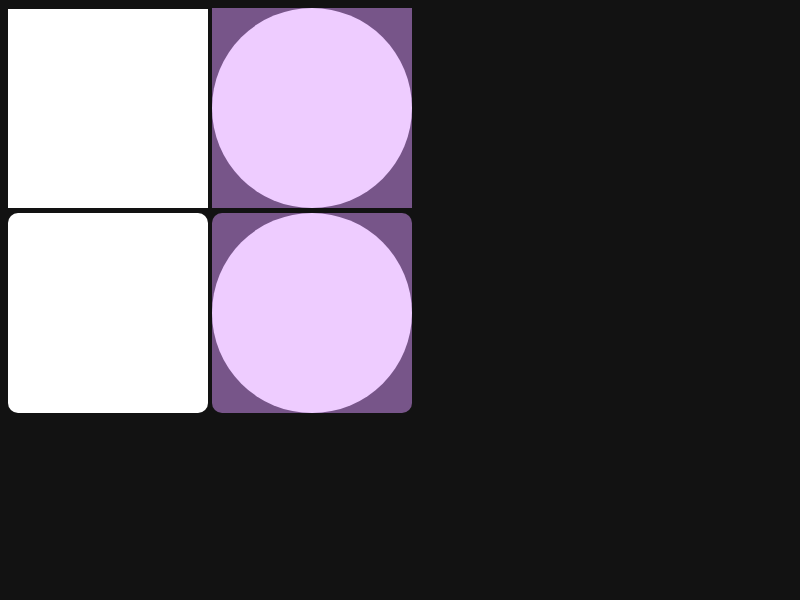
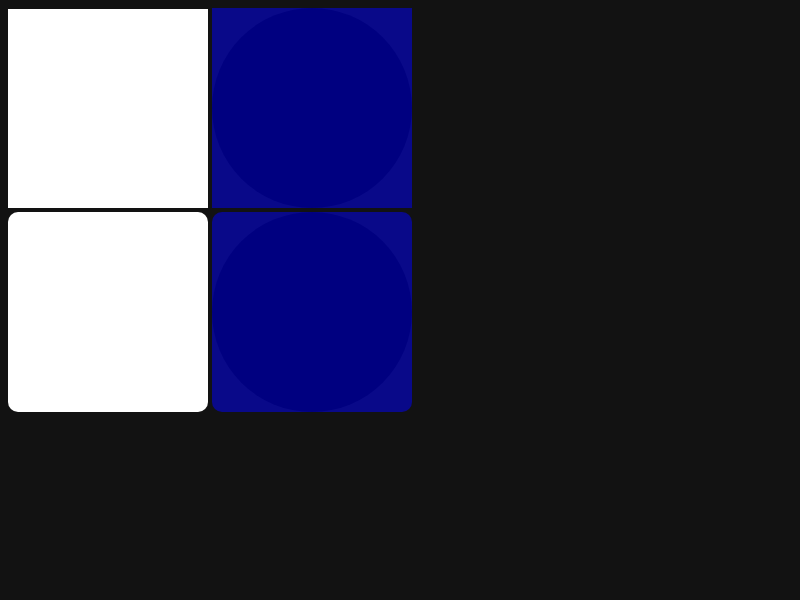
Add size threshold for classifying SVG documents for auto dark mode.
Large standalone SVG documents are treated as content (illustrations/
photos) and left untouched by auto dark mode, while small ones like
icons are considered for auto dark mode.

Nested SVGs are handled via a stack of auto dark mode paused states on
GraphicsContext, managed by ScopedAutoDarkModeState. An icon-sized
inner SVG re-enables inversion even inside a paused (large) container,
and the outer state is restored on scope exit. Images remain gated by
their own size classification rather than the paused state.

Bug: 449909524
Commit-Queue: Prashant Nevase <pnevase@microsoft.com>
Cr-Commit-Position: refs/heads/main@{#1661044}

Changed region(s): [[0.25, 0.0, 0.5312, 0.69]]

diff --git a/renderer/platform/graphics/graphics_context_test.cc b/renderer/platform/graphics/graphics_context_test.cc
@@ -198,5 +198,77 @@ TEST_F(GraphicsContextDarkModeTest, InvertLightnessLAB) {
   EXPECT_EQ(0xff7f7f7f, bitmap_.getColor(3, 0));
 }
 
+TEST_F(GraphicsContextDarkModeTest, ScopedAutoDarkModeStatePaused) {
+  PaintController paint_controller;
+  GraphicsContext context(paint_controller);
+  DarkModeSettings settings;
+  context.SetDarkModeFilterForTest(std::make_unique<DarkModeFilter>(settings));
+  AutoDarkMode auto_dark_mode(DarkModeFilter::ElementRole::kBackground,
+                              /*enabled=*/true);
+
+  EXPECT_FALSE(context.IsAutoDarkModePaused());
+
+  context.BeginRecording();
+  {
+    // Pausing suppresses inversion, so black stays black.
+    GraphicsContext::ScopedAutoDarkModeState paused(context, /*paused=*/true);
+    EXPECT_TRUE(context.IsAutoDarkModePaused());
+    context.FillRect(gfx::RectF(0, 0, 1, 1), Color::kBlack, auto_dark_mode);
+
+    {
+      // A nested scope overrides the ancestor, re-enabling inversion so black
+      // becomes white.
+      GraphicsContext::ScopedAutoDarkModeState resumed(context,
+                                                       /*paused=*/false);
+      EXPECT_FALSE(context.IsAutoDarkModePaused());
+      context.FillRect(gfx::RectF(1, 0, 1, 1), Color::kBlack, auto_dark_mode);
+    }
+
+    // The outer paused state is restored when the nested scope exits.
+    EXPECT_TRUE(context.IsAutoDarkModePaused());
+  }
+
+  // Back to the default (not paused) state after all scopes exit; inversion
+  // applies again, so black becomes white.
+  EXPECT_FALSE(context.IsAutoDarkModePaused());
+  context.FillRect(gfx::RectF(2, 0, 1, 1), Color::kBlack, auto_dark_mode);
+
+  canvas_->drawPicture(context.EndRecording());
+
+  EXPECT_EQ(SK_ColorBLACK, bitmap_.getColor(0, 0));
+  EXPECT_EQ(SK_ColorWHITE, bitmap_.getColor(1, 0));
+  EXPECT_EQ(SK_ColorWHITE, bitmap_.getColor(2, 0));
+}
+
+TEST_F(GraphicsContextDarkModeTest,
+       BitmapImageIgnoresAutoDarkModePausedStates) {
+  PaintController paint_controller;
+  GraphicsContext context(paint_controller);
+  DarkModeSettings settings;
+  context.SetDarkModeFilterForTest(std::make_unique<DarkModeFilter>(settings));
+
+  ImageAutoDarkMode icon(DarkModeFilter::ElementRole::kBackground,
+                         /*enabled=*/true, DarkModeFilter::ImageType::kIcon);
+  ImageAutoDarkMode photo(DarkModeFilter::ElementRole::kBackground,
+                          /*enabled=*/true, DarkModeFilter::ImageType::kPhoto);
+
+  // Not paused: icons are inverted, photos are not.
+  EXPECT_FALSE(context.IsAutoDarkModePaused());
+  EXPECT_NE(nullptr, context.GetDarkModeFilterForImage(icon));
+  EXPECT_EQ(nullptr, context.GetDarkModeFilterForImage(photo));
+
+  {
+    // Paused: the icon is still inverted, and the photo is still untouched.
+    GraphicsContext::ScopedAutoDarkModeState paused(context, /*paused=*/true);
+    EXPECT_TRUE(context.IsAutoDarkModePaused());
+    EXPECT_NE(nullptr, context.GetDarkModeFilterForImage(icon));
+    EXPECT_EQ(nullptr, context.GetDarkModeFilterForImage(photo));
+  }
+
+  // A disabled image auto dark mode never returns a filter.
+  EXPECT_EQ(nullptr,
+            context.GetDarkModeFilterForImage(ImageAutoDarkMode::Disabled()));
+}
+
 }  // namespace
 }  // namespace blink

diff --git a/renderer/core/paint/paint_auto_dark_mode_test.cc b/renderer/core/paint/paint_auto_dark_mode_test.cc
@@ -4,8 +4,13 @@
 
 #include "third_party/blink/renderer/core/paint/paint_auto_dark_mode.h"
 
+#include <memory>
+
 #include "testing/gtest/include/gtest/gtest.h"
+#include "third_party/blink/renderer/core/frame/local_frame.h"
+#include "third_party/blink/renderer/core/testing/dummy_page_holder.h"
 #include "third_party/blink/renderer/platform/graphics/dark_mode_settings.h"
+#include "third_party/blink/renderer/platform/testing/task_environment.h"
 #include "ui/gfx/geometry/rect.h"
 
 namespace blink {
@@ -72,6 +77,18 @@ class PaintAutoDarkModeTest : public testing::Test {
         ImageClassifierHelper::GetImageTypeForTesting(dest_rect, src_rect,
                                                       layout_zoom)));
   }
+
+  DarkModeFilter::ImageType GetSVGDocumentType(float layout_zoom,
+                                               const gfx::Rect& size) {
+    LocalFrame& frame = page_holder_->GetFrame();
+    frame.SetLayoutZoomFactor(layout_zoom);
+    return ImageClassifierHelper::GetSVGDocumentType(frame, size);
+  }
+
+ private:
+  test::TaskEnvironment task_environment_;
+  std::unique_ptr<DummyPageHolder> page_holder_ =
+      std::make_unique<DummyPageHolder>(gfx::Size(800, 600));
 };
 
 TEST_F(PaintAutoDarkModeTest, ShouldApplyFilterToImage) {
@@ -152,6 +169,32 @@ TEST_F(PaintAutoDarkModeTest,
   screen_info.device_scale_factor = 3.0f;
 
   TestApplyFilterToImageIrrespectiveOfPageZoom(screen_info);
+}
+
+TEST_F(PaintAutoDarkModeTest, SVGDocumentImage) {
+  // Both dimensions are at or below the icon threshold (kMaxImageLength == 64).
+  EXPECT_EQ(DarkModeFilter::ImageType::kIcon,
+            GetSVGDocumentType(1.0f, gfx::Rect(50, 50)));
+
+  // Either dimension above the threshold classifies the document as a photo.
+  EXPECT_EQ(DarkModeFilter::ImageType::kPhoto,
+            GetSVGDocumentType(1.0f, gfx::Rect(200, 200)));
+  // Only the width exceeds the threshold.
+  EXPECT_EQ(DarkModeFilter::ImageType::kPhoto,
+            GetSVGDocumentType(1.0f, gfx::Rect(100, 50)));
+  // Only the height exceeds the threshold.
+  EXPECT_EQ(DarkModeFilter::ImageType::kPhoto,
+            GetSVGDocumentType(1.0f, gfx::Rect(50, 100)));
+
+  // A 40x40 CSS-sized SVG scaled up by a 5x layout zoom is still an icon after
+  // the zoom is undone.
+  EXPECT_EQ(DarkModeFilter::ImageType::kIcon,
+            GetSVGDocumentType(5.0f, gfx::Rect(200, 200)));
+
+  // A 400x400 CSS-sized SVG scaled down by a 0.25x layout zoom is still a photo
+  // after the zoom is undone.
+  EXPECT_EQ(DarkModeFilter::ImageType::kPhoto,
+            GetSVGDocumentType(0.25f, gfx::Rect(100, 100)));
 }
 
 }  // namespace blink

diff --git a/renderer/core/paint/svg_root_painter.cc b/renderer/core/paint/svg_root_painter.cc
@@ -4,12 +4,17 @@
 
 #include "third_party/blink/renderer/core/paint/svg_root_painter.h"
 
+#include <optional>
+
+#include "third_party/blink/renderer/core/frame/local_frame.h"
 #include "third_party/blink/renderer/core/layout/svg/layout_svg_foreign_object.h"
 #include "third_party/blink/renderer/core/layout/svg/layout_svg_root.h"
+#include "third_party/blink/renderer/core/paint/paint_auto_dark_mode.h"
 #include "third_party/blink/renderer/core/paint/paint_info.h"
 #include "third_party/blink/renderer/core/paint/paint_layer.h"
 #include "third_party/blink/renderer/core/paint/paint_layer_painter.h"
 #include "third_party/blink/renderer/core/svg/svg_svg_element.h"
+#include "third_party/blink/renderer/platform/graphics/graphics_context.h"
 #include "third_party/blink/renderer/platform/runtime_enabled_features.h"
 
 namespace blink {
@@ -64,8 +69,10 @@ AffineTransform SVGRootPainter::TransformToPixelSnappedBorderBox(
 void SVGRootPainter::PaintReplaced(const PaintInfo& paint_info,
                                    const PhysicalOffset& paint_offset) {
   // An empty viewport disables rendering.
-  if (PixelSnappedSize(paint_offset).IsEmpty())
+  const gfx::Rect snapped_size = PixelSnappedSize(paint_offset);
+  if (snapped_size.IsEmpty()) {
     return;
+  }
 
   // An empty viewBox also disables rendering.
   // (http://www.w3.org/TR/SVG/coords.html#ViewBoxAttribute)
@@ -76,6 +83,23 @@ void SVGRootPainter::PaintReplaced(const PaintInfo& paint_info,
 
   if (paint_info.DescendantPaintingBlocked()) {
     return;
+  }
+
+  std::optional<GraphicsContext::ScopedAutoDarkModeState> dark_mode_state;
+  if (layout_svg_root_.StyleRef().ForceDark()) {
+    // Only treat icon/separator-sized SVG documents as candidates for dark
+    // mode inversion. Larger SVGs are likely content (illustrations/photos)
+    // and should not be force-darkened. This mirrors the size-based image
+    // classification used for bitmaps (kMaxImageLength). SVGs can be nested,
+    // so pause this SVG's dark mode state while painting its children; the
+    // scoper restores the outer state when it goes out of scope. This lets an
+    // icon-sized SVG embedded inside a larger (paused) SVG re-enable inversion
+    // for itself.
+    const bool pause_dark_mode =
+        ImageClassifierHelper::GetSVGDocumentType(*layout_svg_root_.GetFrame(),
+                                                  snapped_size) !=
+        DarkModeFilter::ImageType::kIcon;
+    dark_mode_state.emplace(paint_info.context, pause_dark_mode);
   }
 
   for (LayoutObject* child = layout_svg_root_.FirstChild(); child;

diff --git a/renderer/platform/graphics/graphics_context.h b/renderer/platform/graphics/graphics_context.h
@@ -213,6 +213,34 @@ class PLATFORM_EXPORT GraphicsContext {
   DarkModeFilter* GetDarkModeFilterForImage(
       const ImageAutoDarkMode& auto_dark_mode);
 
+  // Pushes a dark mode inversion pause state on construction and pops it on
+  // destruction, guaranteeing pushes and pops are always balanced. See the
+  // comment on IsAutoDarkModePaused() for the semantics of the pause states.
+  class ScopedAutoDarkModeState {
+    STACK_ALLOCATED();
+
+   public:
+    ScopedAutoDarkModeState(GraphicsContext& context, bool paused)
+        : context_(context) {
+      context_.PushAutoDarkModeState(paused);
+    }
+    ScopedAutoDarkModeState(const ScopedAutoDarkModeState&) = delete;
+    ScopedAutoDarkModeState& operator=(const ScopedAutoDarkModeState&) = delete;
+    ~ScopedAutoDarkModeState() { context_.PopAutoDarkModeState(); }
+
+   private:
+    GraphicsContext& context_;
+  };
+
+  // Dark mode color/flags inversion pause state. While the latest pushed state
+  // is true, inversion is paused regardless of the per-draw |enabled| flag.
+  // Nested scopes can override the pause state of their ancestors: the pushed
+  // state applies until it is popped, after which the previous state takes
+  // effect again. Use ScopedAutoDarkModeState to manage the states.
+  bool IsAutoDarkModePaused() const {
+    return !auto_dark_mode_states_.empty() && auto_dark_mode_states_.back();
+  }
+
   void SetDarkModeFilterForTest(std::unique_ptr<DarkModeFilter>);
 
   // ---------- State management methods -----------------
@@ -511,6 +539,16 @@ class PLATFORM_EXPORT GraphicsContext {
     return paint_state_;
   }
 
+  // Managed exclusively through ScopedAutoDarkModeState to keep pushes and pops
+  // balanced.
+  void PushAutoDarkModeState(bool paused) {
+    auto_dark_mode_states_.push_back(paused);
+  }
+  void PopAutoDarkModeState() {
+    DCHECK(!auto_dark_mode_states_.empty());
+    auto_dark_mode_states_.pop_back();
+  }
+
   template <typename DrawTextFunc>
   void DrawTextPasses(const DrawTextFunc&);
 
@@ -571,6 +609,7 @@ class PLATFORM_EXPORT GraphicsContext {
 
   std::unique_ptr<DarkModeFilter> dark_mode_filter_;
 
+  Vector<bool> auto_dark_mode_states_;
   bool printing_ = false;
   bool printing_internal_headers_and_footers_ = false;
   bool in_drawing_recorder_ = false;

diff --git a/renderer/platform/graphics/graphics_context.cc b/renderer/platform/graphics/graphics_context.cc
@@ -77,7 +77,7 @@ namespace {
 SkColor4f DarkModeColor(GraphicsContext& context,
                         const SkColor4f& color,
                         const AutoDarkMode& auto_dark_mode) {
-  if (auto_dark_mode.enabled) {
+  if (auto_dark_mode.enabled && !context.IsAutoDarkModePaused()) {
     return context.GetDarkModeFilter()->InvertColorIfNeeded(
         color, auto_dark_mode.role,
         SkColor4f::FromColor(auto_dark_mode.contrast_color));
@@ -189,7 +189,7 @@ class GraphicsContext::DarkModeFlags final {
   DarkModeFlags(GraphicsContext* context,
                 const AutoDarkMode& auto_dark_mode,
                 const cc::PaintFlags& flags) {
-    if (auto_dark_mode.enabled) {
+    if (auto_dark_mode.enabled && !context->IsAutoDarkModePaused()) {
       dark_mode_flags_ = context->GetDarkModeFilter()->ApplyToFlagsIfNeeded(
           flags, auto_dark_mode.role,
           SkColor4f::FromColor(auto_dark_mode.contrast_color));
@@ -248,6 +248,9 @@ DarkModeFilter* GraphicsContext::GetDarkModeFilterForImage(
     const ImageAutoDarkMode& auto_dark_mode) {
   if (!auto_dark_mode.enabled)
     return nullptr;
+  // Images are gated by their own size classification, not by the context's
+  // auto dark mode paused state, so an icon-sized image is still inverted even
+  // while dark mode is paused for its container.
   DarkModeFilter* dark_mode_filter = GetDarkModeFilter();
   if (!dark_mode_filter->ShouldApplyFilterToImage(auto_dark_mode.image_type))
     return nullptr;

diff --git a/renderer/core/paint/paint_auto_dark_mode.cc b/renderer/core/paint/paint_auto_dark_mode.cc
@@ -70,6 +70,25 @@ ImageAutoDarkMode ImageClassifierHelper::GetImageAutoDarkMode(
 }
 
 // static
+DarkModeFilter::ImageType ImageClassifierHelper::GetSVGDocumentType(
+    LocalFrame& local_frame,
+    const gfx::Rect& size) {
+  // |size| includes the layout zoom factor (page zoom and DSF). Undo it so the
+  // size threshold matches bitmap images, whose classification is unaffected by
+  // page zoom and DSF.
+  const float layout_zoom = local_frame.LayoutZoomFactor();
+  const float unzoomed_width =
+      layout_zoom > 0.f ? size.width() / layout_zoom : size.width();
+  const float unzoomed_height =
+      layout_zoom > 0.f ? size.height() / layout_zoom : size.height();
+  if (unzoomed_width <= kMaxImageLength && unzoomed_height <= kMaxImageLength) {
+    return DarkModeFilter::ImageType::kIcon;
+  }
+
+  return DarkModeFilter::ImageType::kPhoto;
+}
+
+// static
 DarkModeFilter::ImageType ImageClassifierHelper::GetImageTypeForTesting(
     const gfx::RectF& dest_rect,
     const gfx::RectF& src_rect,

diff --git a/renderer/core/paint/paint_auto_dark_mode.h b/renderer/core/paint/paint_auto_dark_mode.h
@@ -39,6 +39,10 @@ class ImageClassifierHelper {
       DarkModeFilter::ElementRole role =
           DarkModeFilter::ElementRole::kBackground);
 
+  CORE_EXPORT static DarkModeFilter::ImageType GetSVGDocumentType(
+      LocalFrame& local_frame,
+      const gfx::Rect& size);
+
   CORE_EXPORT static DarkModeFilter::ImageType GetImageTypeForTesting(
       const gfx::RectF& dest_rect,
       const gfx::RectF& src_rect,
